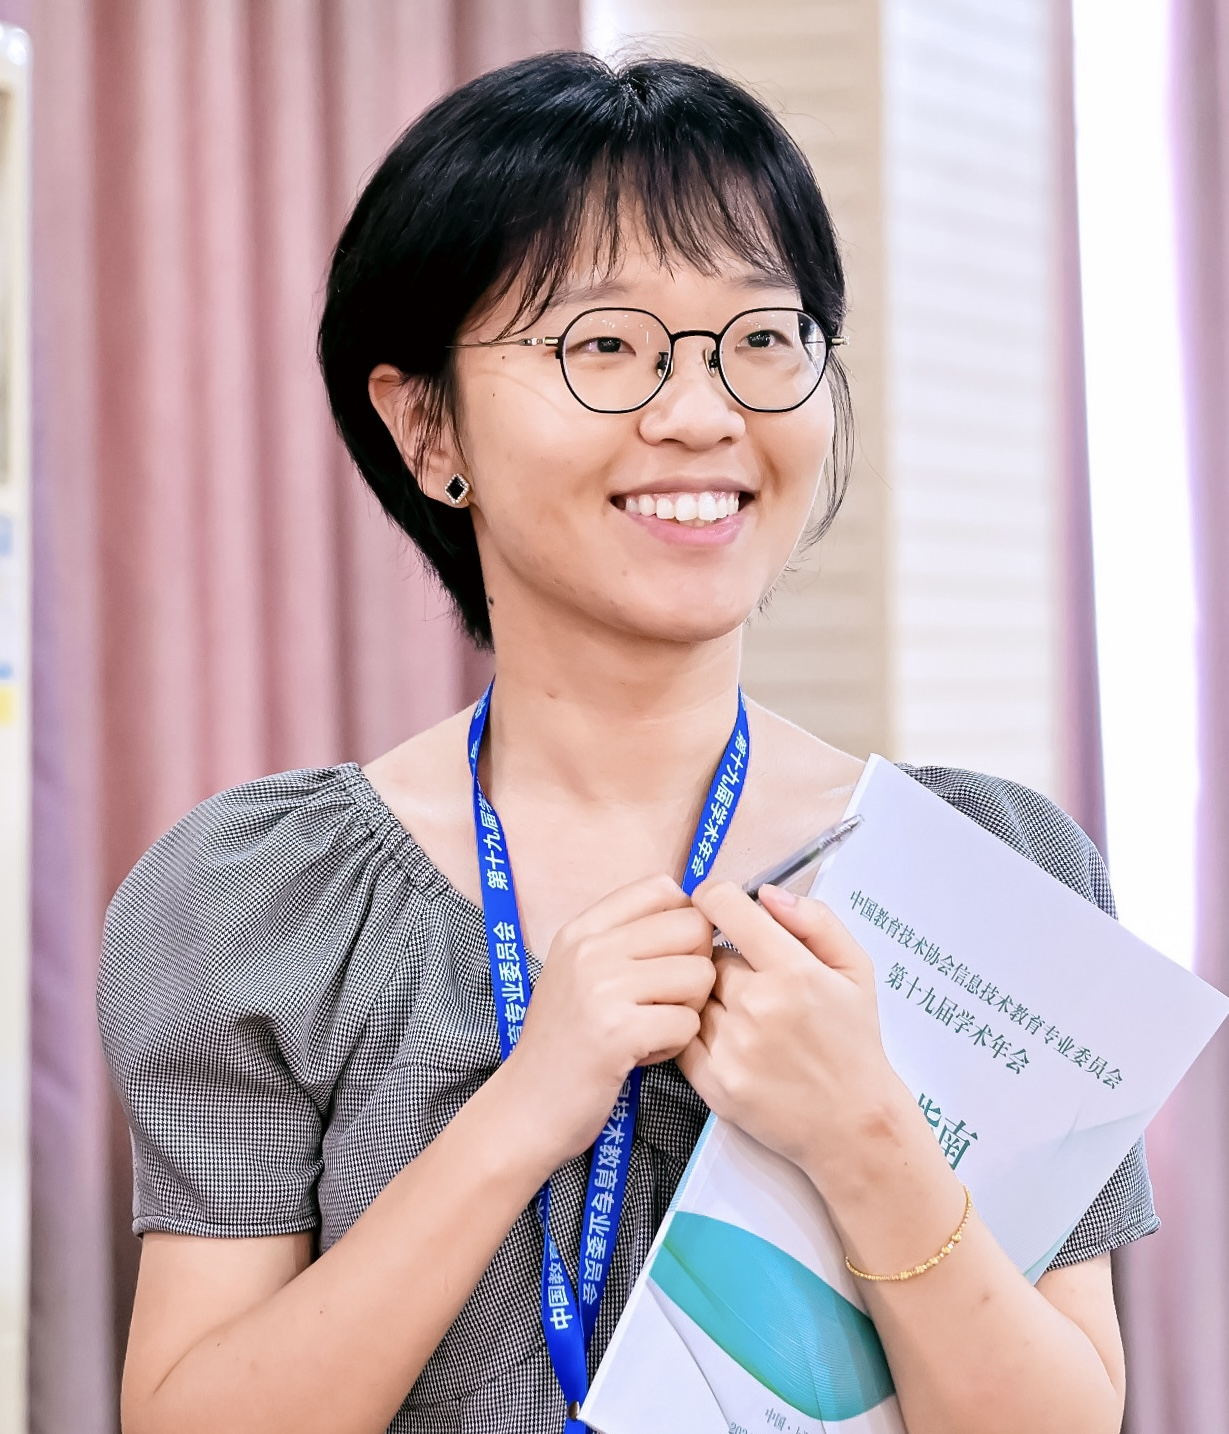
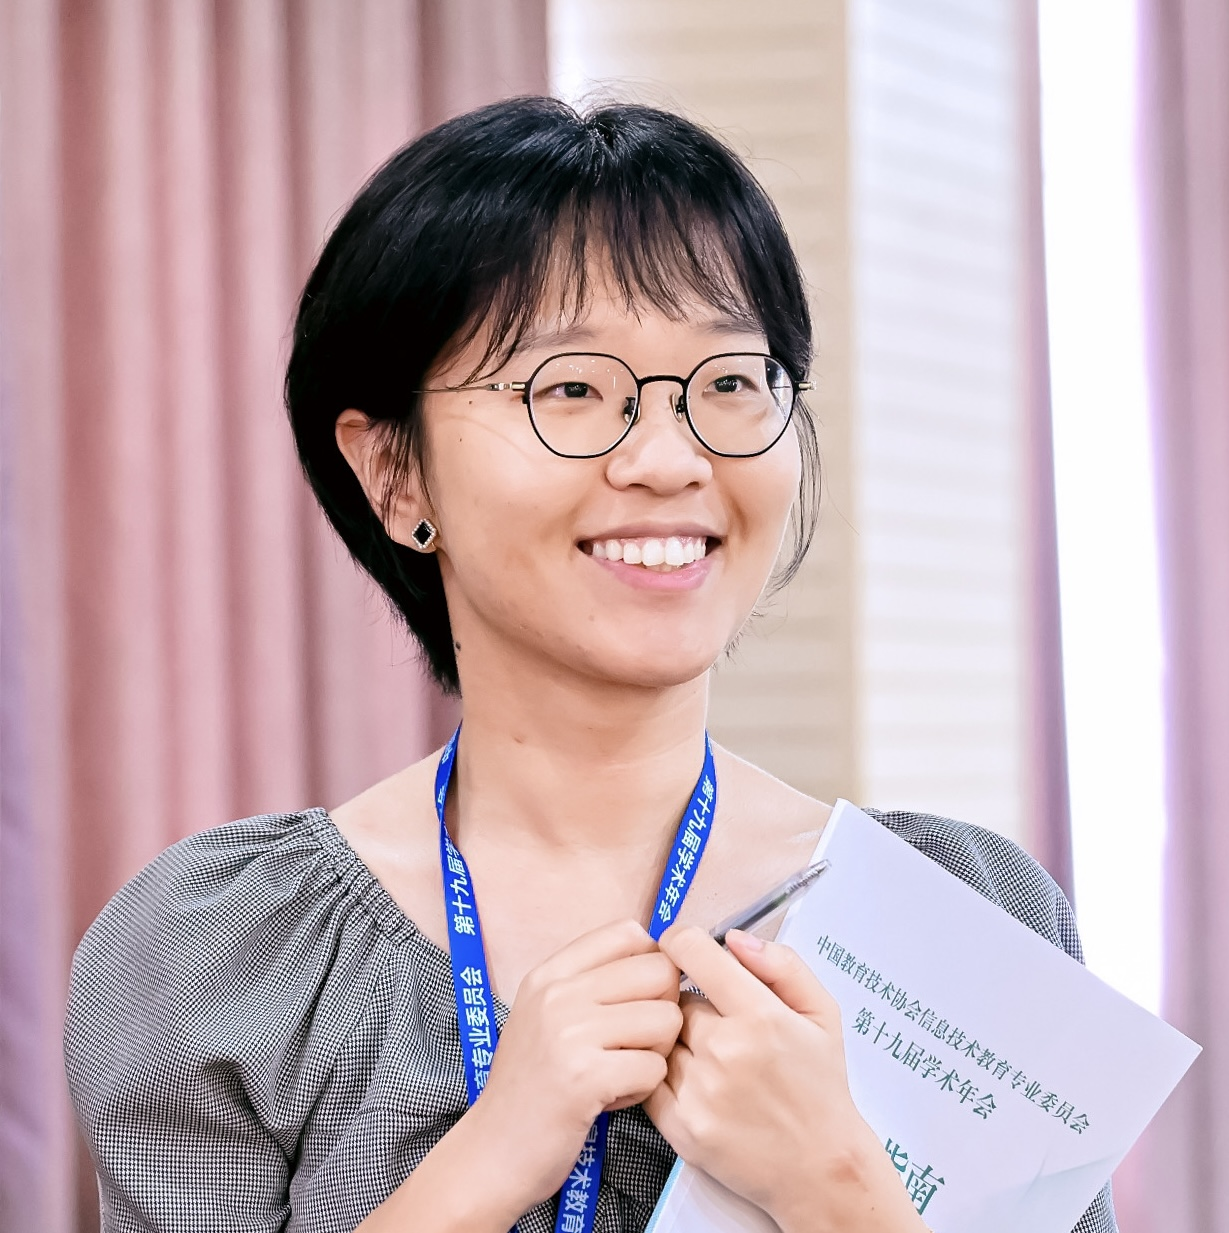
update pdf+jpg
重新修改了照片，添加论文链接

diff --git a/index.md b/index.md
@@ -7,7 +7,7 @@ layout: page
 
 
 
-你好👋我是**陈羽洁**.<br>
+你好👋我是**陈羽洁**。<br>
 
 我是[湖州师范学院](https://www.zjhu.edu.cn)教育学院教育技术学系教师, 硕士生导师，毕业于南京师范大学教育技术学系。主要从事知识建构教学与实践、计算机支持的协作学习、人工智能教学创新等方面的研究。目前主持教育部人文社会科学青年课题一项，校级教学改革项目两项；参与多项省级、市厅级课题及一项省级一流本科课程建设项目。近年来，以第一作者在Educational Technology Research & Development、电化教育研究、职业技术教育等教育技术国际权威及核心期刊发表学术论文近十篇，担任The Asia-Pacific  Education Researcher审稿人。获得校级高校教师教学创新大赛二等奖、青年教师教学竞赛二等奖；作为第一指导老师指导学生参加大学生数字媒体科技作品及创意竞赛获得华东赛区三等奖；中国大学生计算机设计大赛三等奖以及“田家炳杯”教育硕士现代教育技术专业教学技能大赛三等奖。
 
@@ -36,5 +36,5 @@ layout: page
 - **2025年7月17日-19日**：参加第20届信息技术教育专委会年会，日照，山东。
 - **2025年7月11日**：关于“AI赋能《计算机支持的协作学习》课程知识建构教学应用与实践”的研究受到湖州师范学院校教学委员会的资助。
 - **2025年7月9日**：关于“生成式AI多智能体协同支持师范生教学资源设计的实践”的研究受到湖州师范学院校教学委员会的资助。
-- **2024年**：我们的论文“The use of distance-shortening strategies to enhance opportunistic collaboration in knowledge-building environments”已被Educational Technology Research & Development接收并发表。(ETRD.pdf)
+- **2024年**：我们的论文“The use of distance-shortening strategies to enhance opportunistic collaboration in knowledge-building environments”已被Educational Technology Research & Development接收并发表。<a href="{{ site.baseurl }}/ETRD.pdf" target="_blank" class="btn">查看我的论文 (PDF)</a >
 
